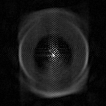
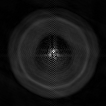
Add results

diff --git a/scripts/cryoSPARC.m b/scripts/cryoSPARC.m
@@ -14,7 +14,7 @@ filename = ...
 	'../results/cryoSPARC/5_percent_noise/';
 num_theta = 180;
 max_shift_err = 0;
-max_angle_err = 30;
+max_angle_err = 89;
 resolution_angle = 1;
 resolution_space = 1;
 L_pad = 260; 
@@ -236,7 +236,7 @@ for q=1:no_of_iterations
 	disp(norm(image_estimate - P));
     
     % Update the number of samples for the next iteration.
-    if norm(image_estimate - P) < 10
+    if norm(image_estimate - P) < 7
         number_of_samples(q+1) = 100;
     else
         number_of_samples(q+1) = 30;
